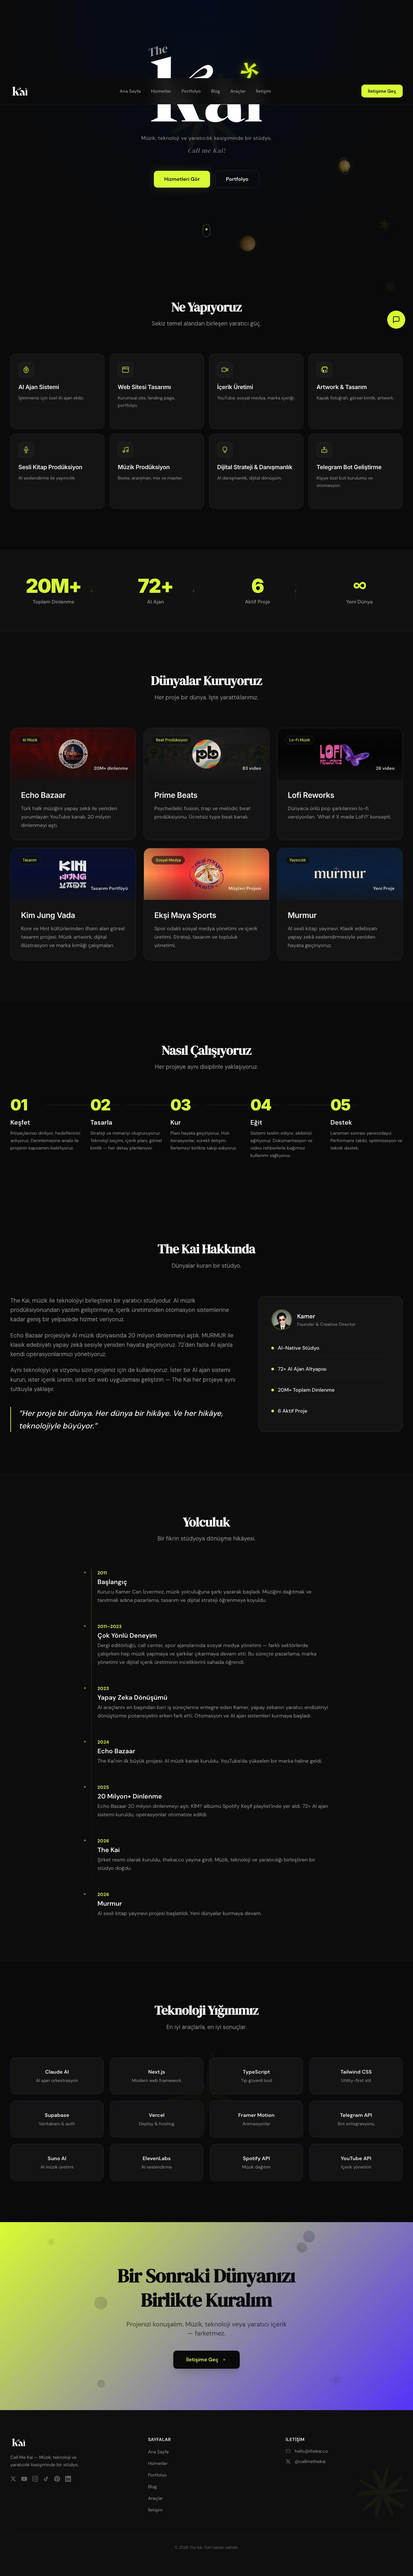
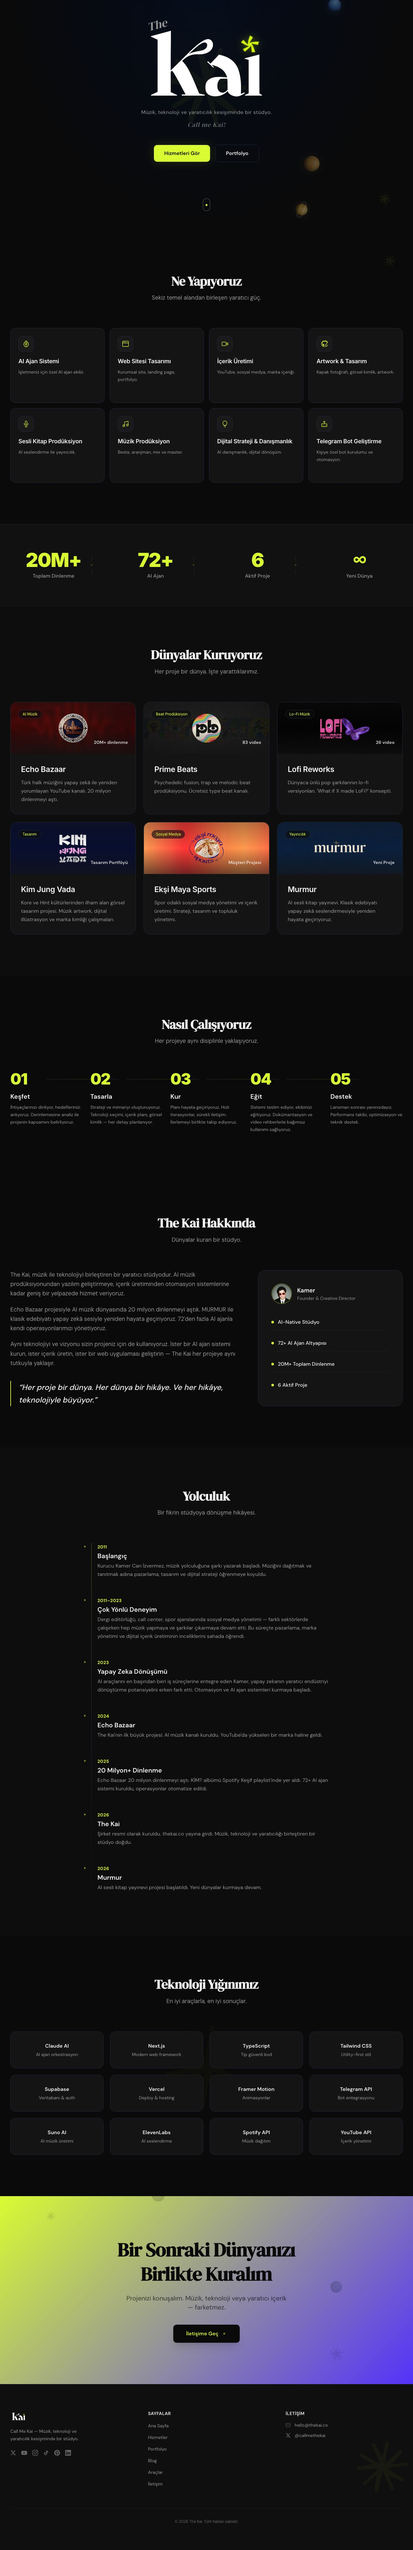
fix: artwork etiketleri + TheKai screenshot navbar temizlendi
- SINGLE ARTWORK (I harfi, İ değil)
- ALBUM ARTWORK (Kamer gitarlı foto)
- TheKai screenshot navbar kaldırıldı + üst 80px crop

diff --git a/src/app/portfolyo/page.tsx b/src/app/portfolyo/page.tsx
@@ -9,19 +9,19 @@ import DecorativePinwheel from "@/components/ui/DecorativePinwheel";
 const MUSIC_ARTWORKS = [
   {
     title: "Estarabim",
-    category: "Single Artwork",
+    category: "SINGLE ARTWORK",
     description: "Türk hip-hop ve Orta Doğu melodilerini birleştiren single. Kamer'in en son çıkan teki.",
     image: "/images/artworks/estarabim.jpg",
   },
   {
     title: "Yandı Dibine Kadar",
-    category: "Single Artwork",
+    category: "SINGLE ARTWORK",
     description: "Çöl estetiği ve sinematik görsellikle tasarlanan artwork.",
     image: "/images/artworks/yandi-dibine-kadar.jpg",
   },
   {
     title: "Kamer",
-    category: "Sanatçı Görseli",
+    category: "ALBUM ARTWORK",
     description: "Gitarlı portre — Kamer'in sanatçı kimliğini yansıtan ikonik kare.",
     image: "/images/artworks/kamer-genius.jpg",
   },
